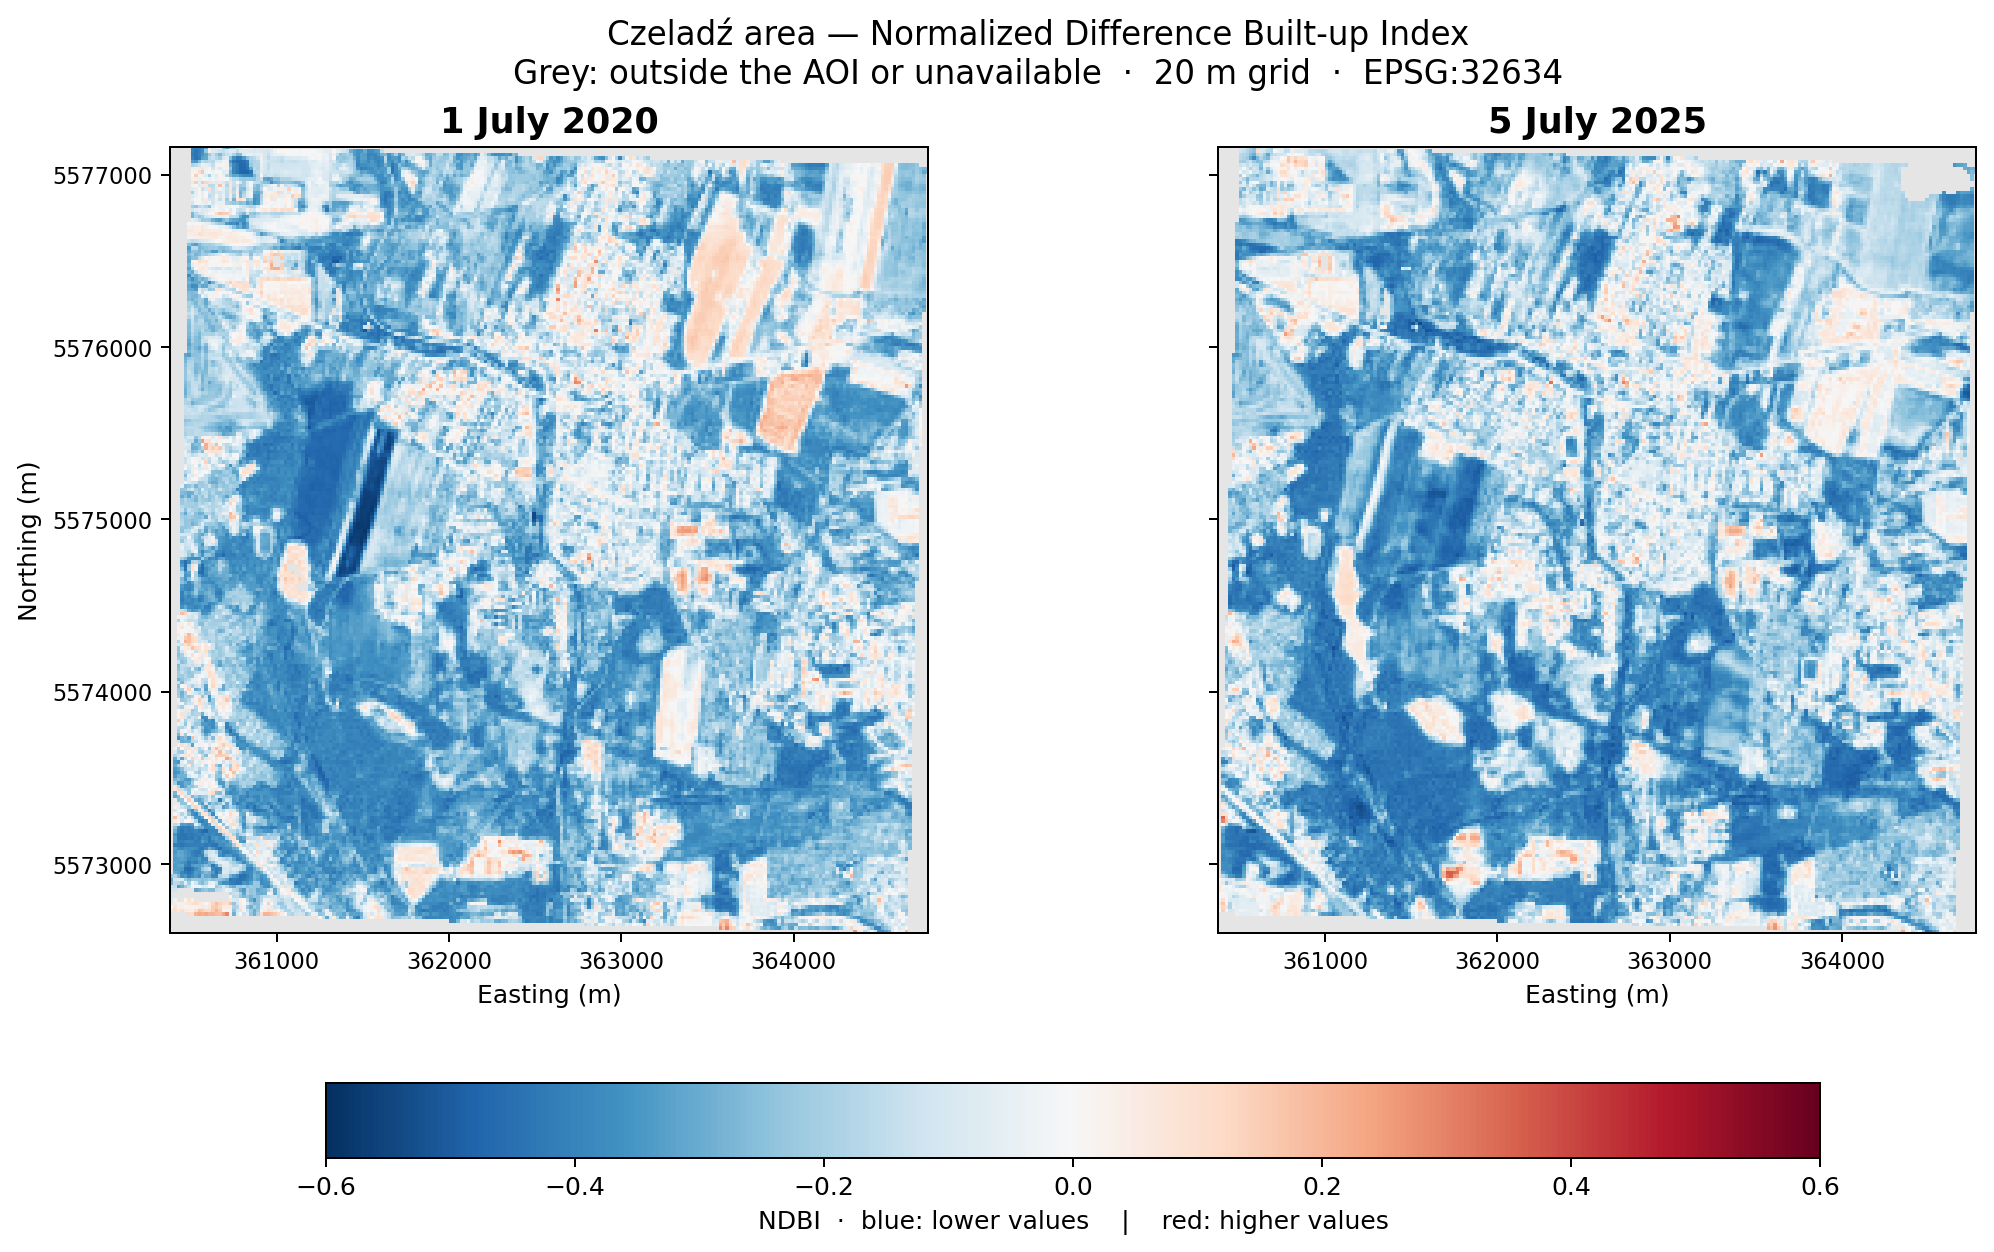
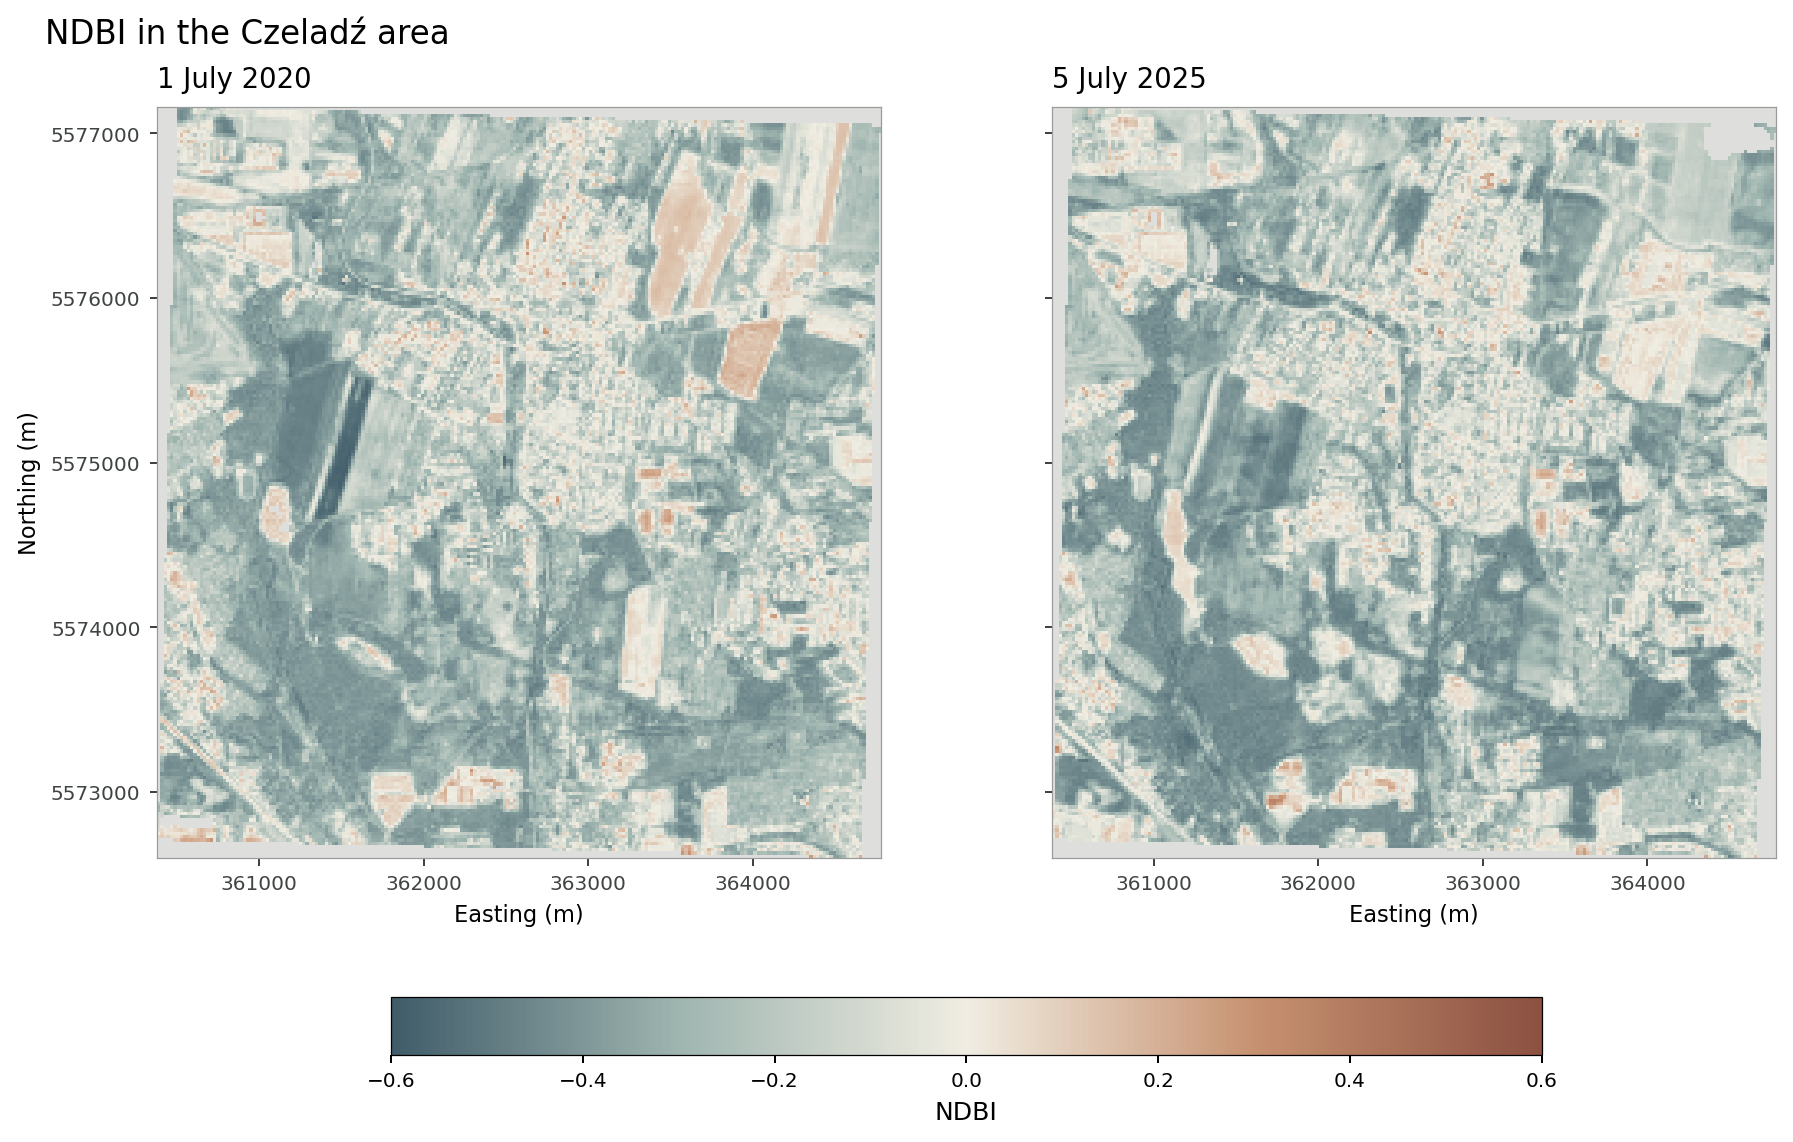
Refine Czeladz NDBI map styling

diff --git a/Labs/Lab06/submission/plot_ndbi.py b/Labs/Lab06/submission/plot_ndbi.py
@@ -6,6 +6,7 @@ from pathlib import Path
 import matplotlib
 matplotlib.use("Agg")
 import matplotlib.pyplot as plt
+from matplotlib.colors import LinearSegmentedColormap
 from matplotlib.ticker import MaxNLocator
 import numpy as np
 import rasterio
@@ -30,23 +31,27 @@ def main():
     if grids[0] != grids[1]:
         raise ValueError("The two index rasters do not share a grid")
 
-    fig, axes = plt.subplots(1, 2, figsize=(12, 6.8), layout="constrained", sharex=True, sharey=True)
-    cmap = plt.get_cmap("RdBu_r").copy()
-    cmap.set_bad("#e5e5e5")
+    fig, axes = plt.subplots(1, 2, figsize=(10.5, 6.2), layout="constrained", sharex=True, sharey=True)
+    cmap = LinearSegmentedColormap.from_list("ndbi", ["#405c69", "#9fb5b0", "#f0ede2", "#c79271", "#8c5141"])
+    cmap.set_bad("#dededc")
     bounds = grids[0][3]
     for ax, data, (_, date) in zip(axes, arrays, scenes):
         image = ax.imshow(np.ma.masked_invalid(data), cmap=cmap, vmin=-0.6, vmax=0.6,
                           extent=(bounds.left, bounds.right, bounds.bottom, bounds.top), interpolation="nearest")
-        ax.set_title(date, fontsize=14, weight="bold")
-        ax.set_xlabel("Easting (m)")
+        ax.set_title(date, fontsize=11, loc="left", pad=8)
+        ax.set_xlabel("Easting (m)", fontsize=9)
         ax.ticklabel_format(style="plain", useOffset=False)
         ax.xaxis.set_major_locator(MaxNLocator(5))
-        ax.tick_params(labelsize=9)
-    axes[0].set_ylabel("Northing (m)")
-    fig.suptitle("Czeladź area — Normalized Difference Built-up Index\n"
-                 "Grey: outside the AOI or unavailable  ·  20 m grid  ·  EPSG:32634", fontsize=13)
-    fig.colorbar(image, ax=axes, orientation="horizontal", shrink=0.72, pad=0.08,
-                 label="NDBI  ·  blue: lower values    |    red: higher values")
+        ax.tick_params(labelsize=8, length=3, colors="#3f4442")
+        for spine in ax.spines.values():
+            spine.set_color("#999d99")
+            spine.set_linewidth(0.5)
+    axes[0].set_ylabel("Northing (m)", fontsize=9)
+    fig.suptitle("NDBI in the Czeladź area", fontsize=13, x=0.04, ha="left")
+    colorbar = fig.colorbar(image, ax=axes, orientation="horizontal", shrink=0.65, pad=0.08,
+                            label="NDBI")
+    colorbar.ax.tick_params(labelsize=8, length=3)
+    colorbar.outline.set_linewidth(0.5)
     args.output.parent.mkdir(parents=True, exist_ok=True)
     fig.savefig(args.output, dpi=180, bbox_inches="tight", facecolor="white")
     plt.close(fig)

diff --git a/Labs/Lab06/submission/report.md b/Labs/Lab06/submission/report.md
@@ -29,7 +29,7 @@ I used NDBI to compare candidate built-up surfaces in a part of Czeladź on 1 Ju
 
 ![NDBI maps for the Czeladź area on 1 July 2020 and 5 July 2025, shown with the same colour scale](evidence/personal/czeladz_ndbi_2020_2025.png)
 
-The maps use the same colour scale, with higher NDBI values in red and unavailable pixels in grey. Higher values can also occur over exposed soil, so the colours alone do not confirm built-up land
+The maps use the same colour scale, with higher NDBI values in brown and unavailable pixels in grey. The grid resolution is 20 m and the coordinates are in EPSG:32634. Higher values can also occur over exposed soil, so the colours alone do not confirm built-up land
 
 | Date | Raw coverage | Usable coverage | Candidate area at threshold 0 | QC at 0.5 |
 |---|---:|---:|---:|---|
